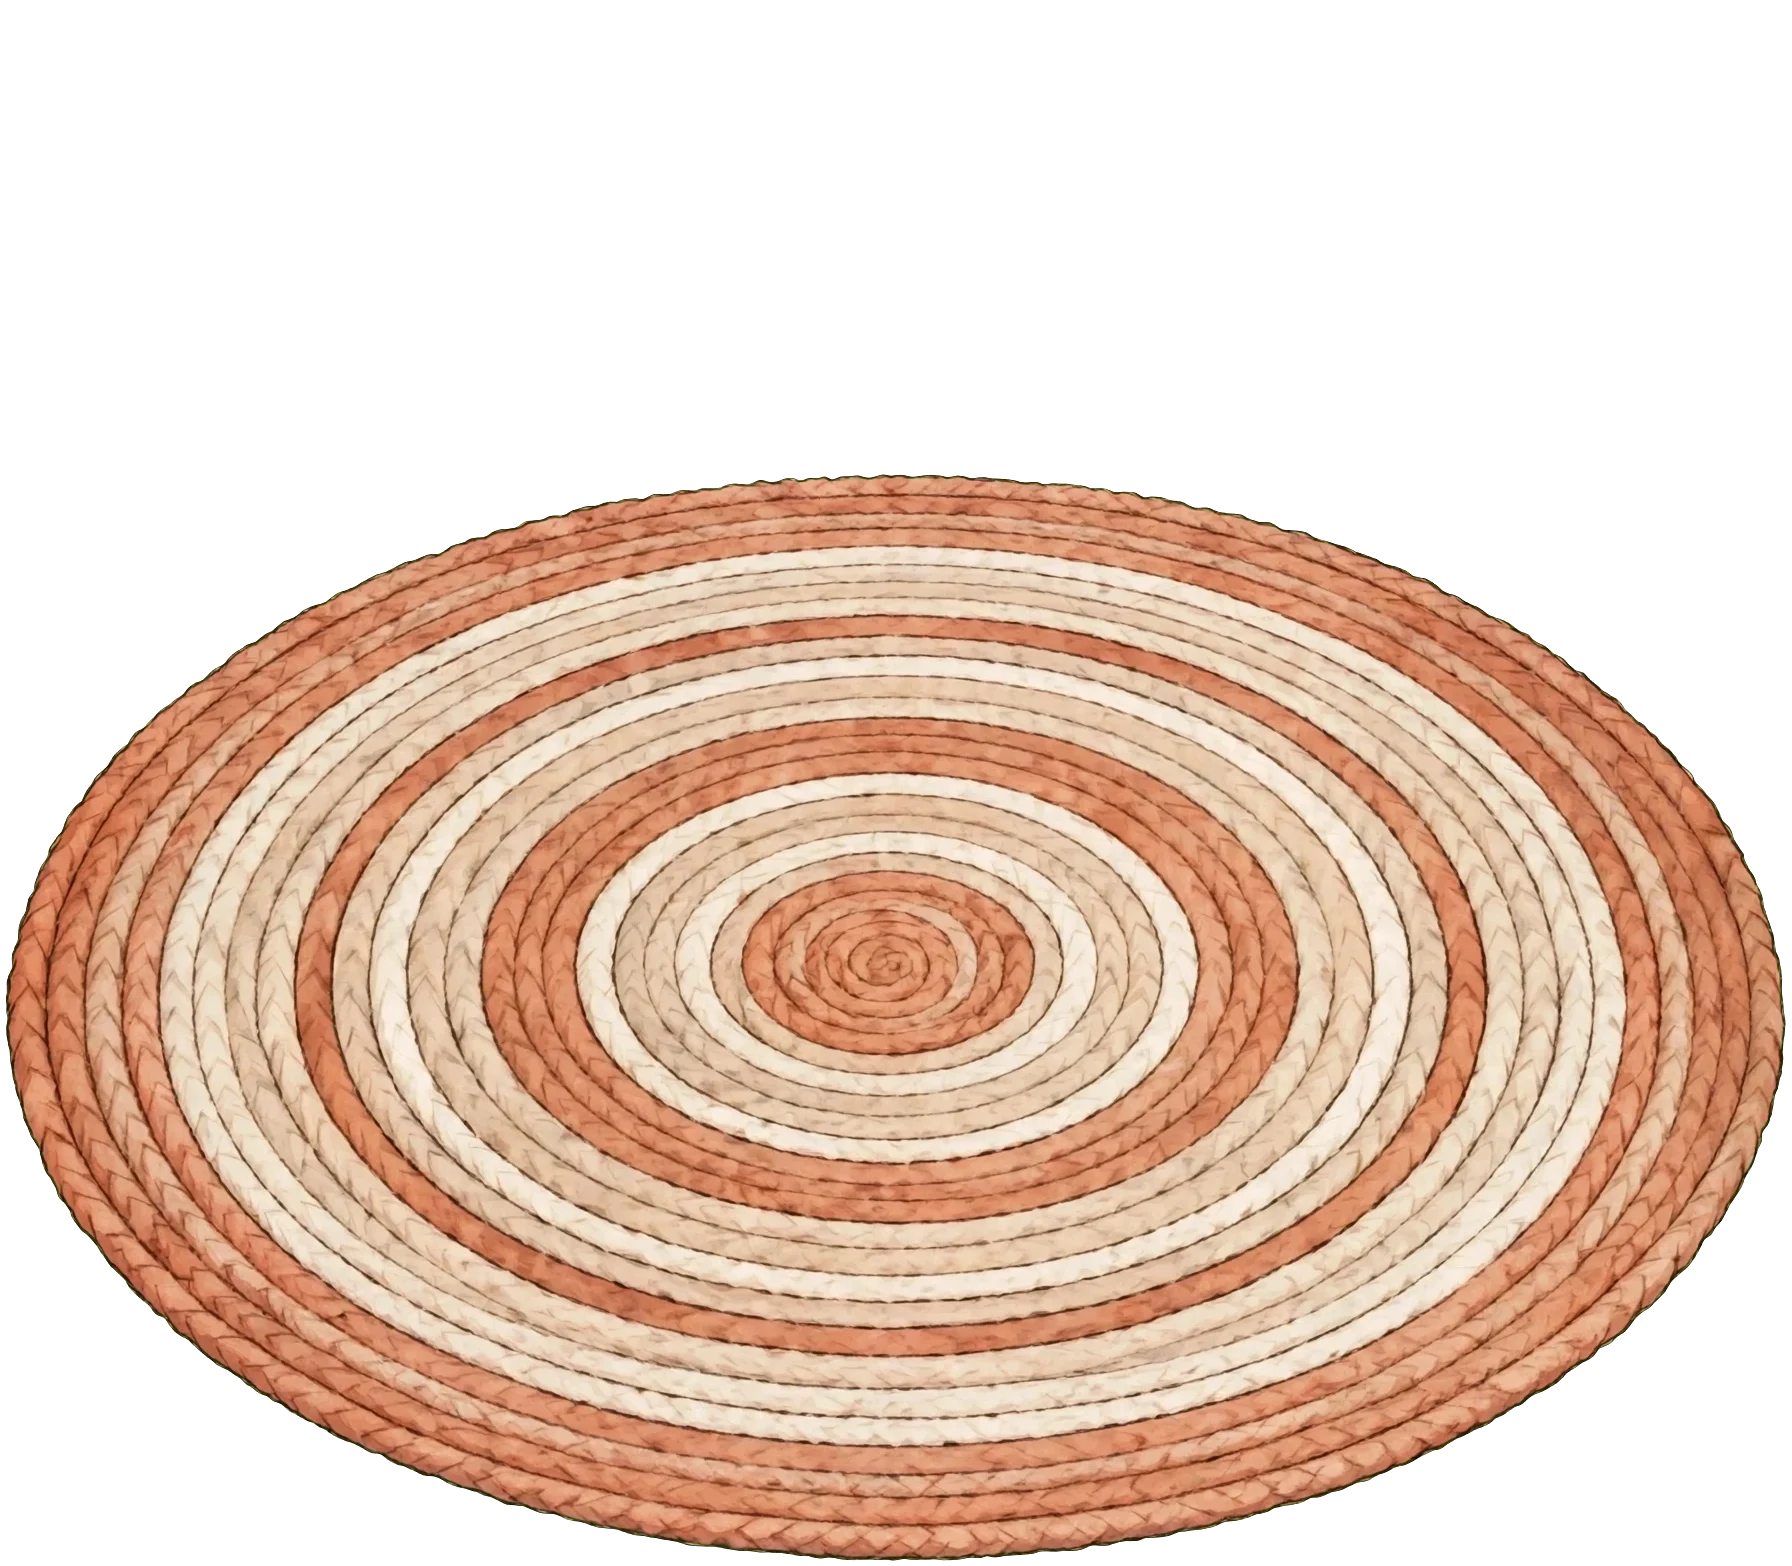
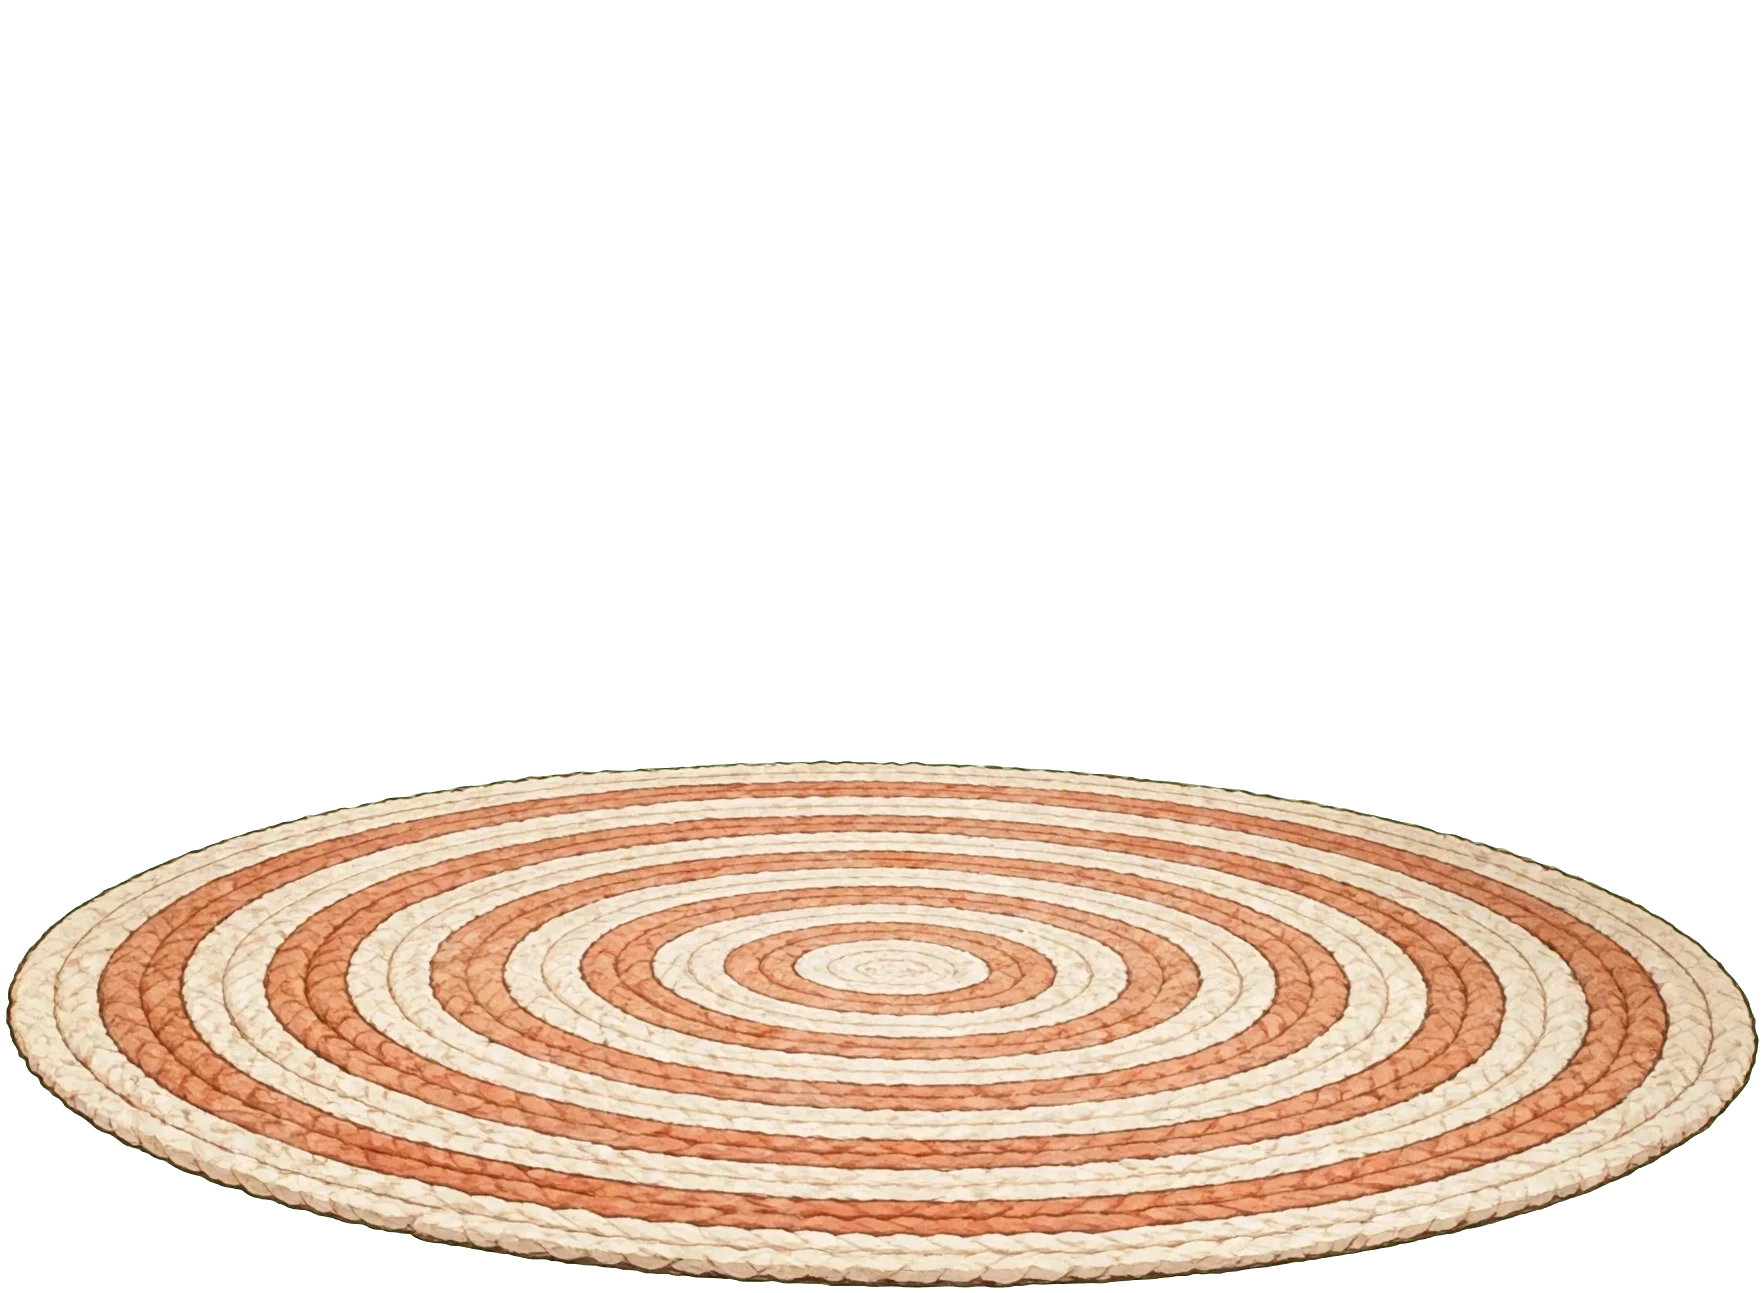
小屋改 16:9 宽房间：新背景重画、地毯绿植在新房间内生成后拆层、书柜贴后墙、书桌补全单独态

diff --git a/components/muse-room.tsx b/components/muse-room.tsx
@@ -34,7 +34,7 @@ import {
 // 她穿访客当前套装：自由身用时装库姿势图；行走默认装用小屋专用步行帧，
 // 其他套装用向前冲的奔跑帧代步；互动图层只有默认装——非默认装时她只散步不互动。
 
-const SCENE_RATIO = 5 / 8; // 场景容器高/宽（aspect 8/5），百分比换算用
+const SCENE_RATIO = 9 / 16; // 场景容器高/宽（aspect 16/9），百分比换算用
 
 function pick<T>(arr: T[]): T {
   return arr[Math.floor(Math.random() * arr.length)];
@@ -56,16 +56,16 @@ const INTERACT_LINE_KEY: Record<string, string> = {
   rug: "rug",
 };
 
-// 地毯互动人物层（合体图画布）与单体地毯（另一画布）的对位参数
-const RUG_CHAR_PLACE = { cx: 60, bottom: 99.5, h: 42 };
-
 // 家具图层画布的宽高比（left 居中换算用）
 const FURNITURE_ASPECT: Record<FurnitureId, number> = {
   bookshelf: 1207 / 1088,
   desk: 816 / 802,
-  plant: 769 / 1025,
-  rug: 1792 / 1566,
+  plant: 659 / 924,
+  rug: 1764 / 1293,
 };
+
+// 场景绘制顺序（后画的在上层）：靠墙的先画，前景的地毯最后
+const SCENE_ORDER: FurnitureId[] = ["bookshelf", "desk", "plant", "rug"];
 
 export function MuseRoom() {
   const t = useTranslations("Room");
@@ -353,7 +353,7 @@ export function MuseRoom() {
   // ---------------- 渲染 ----------------
 
   if (!save) {
-    return <div className="w-full rounded-xl border border-stone-200 dark:border-stone-800 bg-[#f7f1e5] dark:bg-stone-900 aspect-[8/5] animate-pulse" />;
+    return <div className="w-full rounded-xl border border-stone-200 dark:border-stone-800 bg-[#f7f1e5] dark:bg-stone-900 aspect-[16/9] animate-pulse" />;
   }
 
   const level = intimacyLevel(save.intimacyXp);
@@ -382,11 +382,11 @@ export function MuseRoom() {
   const bubbleAnchorX = herInLayer && act.target ? FURNITURE[act.target].anchor.x : herX;
   const bubbleBottom =
     act.mode === "interact" && act.target === "bookshelf"
-      ? 56
+      ? 67
       : act.mode === "interact" && act.target === "desk"
-        ? 60
+        ? 53
         : act.mode === "interact" || act.mode === "rest"
-          ? 56
+          ? 40
           : 46;
 
   const bar = (label: string, value: number, color: string) => (
@@ -408,12 +408,12 @@ export function MuseRoom() {
       `}</style>
 
       {/* 场景 */}
-      <div className="relative w-full overflow-hidden rounded-xl border border-stone-200 dark:border-stone-800 select-none" style={{ aspectRatio: "8/5" }}>
+      <div className="relative w-full overflow-hidden rounded-xl border border-stone-200 dark:border-stone-800 select-none" style={{ aspectRatio: "16/9" }}>
         {/* eslint-disable-next-line @next/next/no-img-element */}
         <img src="/muse-room/backdrop.webp" alt="" className="absolute inset-0 w-full h-full object-cover" draggable={false} />
 
         {/* 家具（固定槽位；拥有后出现，她互动时切换图层组） */}
-        {FURNITURE_ORDER.map((fid) => {
+        {SCENE_ORDER.map((fid) => {
           const def = FURNITURE[fid];
           if (!save.owned.includes(fid)) return null;
           const withHer = interactingWith(fid);
@@ -458,19 +458,11 @@ export function MuseRoom() {
                     alt=""
                     className="absolute max-w-none"
                     draggable={false}
-                    style={
-                      fid === "rug"
-                        ? {
-                            left: `${RUG_CHAR_PLACE.cx - (RUG_CHAR_PLACE.h * 0.728 * SCENE_RATIO) / 2}%`,
-                            bottom: `${100 - RUG_CHAR_PLACE.bottom}%`,
-                            height: `${RUG_CHAR_PLACE.h}%`,
-                          }
-                        : {
-                            left: `${def.place.cx - (def.place.h * FURNITURE_ASPECT[fid] * SCENE_RATIO) / 2}%`,
-                            bottom: `${100 - def.place.bottom}%`,
-                            height: `${def.place.h}%`,
-                          }
-                    }
+                    style={{
+                      left: `${def.place.cx - (def.place.h * FURNITURE_ASPECT[fid] * SCENE_RATIO) / 2}%`,
+                      bottom: `${100 - def.place.bottom}%`,
+                      height: `${def.place.h}%`,
+                    }}
                   />
                 ))}
             </div>
@@ -580,7 +572,7 @@ export function MuseRoom() {
           <p className="text-sm text-stone-500 dark:text-stone-400 font-light">{t("shopHint")}</p>
         </div>
         <div className="grid grid-cols-2 md:grid-cols-4 gap-3">
-          {FURNITURE_ORDER.map((fid) => {
+          {SCENE_ORDER.map((fid) => {
             const def = FURNITURE[fid];
             const owned = save.owned.includes(fid);
             const thumb = def.layers?.alone[0];

diff --git a/lib/room.ts b/lib/room.ts
@@ -270,12 +270,12 @@ export const FURNITURE: Record<FurnitureId, FurnitureDef> = {
     interactive: true,
     duration: 9000,
     intimacyXp: 1,
-    place: { cx: 60, bottom: 99.7, h: 50.7 },
+    place: { cx: 66, bottom: 99.3, h: 37 },
     layers: {
       alone: [`${R}/rug-solo.webp`],
       withHer: [`${R}/rug-solo.webp`, `${R}/rug-char.webp`],
     },
-    anchor: { x: 60, feet: 84.8 },
+    anchor: { x: 64.5, feet: 97.9 },
   },
   bookshelf: {
     id: "bookshelf",
@@ -285,12 +285,12 @@ export const FURNITURE: Record<FurnitureId, FurnitureDef> = {
     interactive: true,
     duration: 8000,
     intimacyXp: 1,
-    place: { cx: 23.6, bottom: 95.3, h: 51.5 },
+    place: { cx: 15.5, bottom: 77.5, h: 43 },
     layers: {
       alone: [`${R}/shelf-back.webp`],
       withHer: [`${R}/shelf-back.webp`, `${R}/shelf-char.webp`],
     },
-    anchor: { x: 33.2, feet: 95 },
+    anchor: { x: 22.7, feet: 77.2 },
   },
   desk: {
     id: "desk",
@@ -300,12 +300,12 @@ export const FURNITURE: Record<FurnitureId, FurnitureDef> = {
     interactive: true,
     duration: 9000,
     intimacyXp: 1,
-    place: { cx: 40, bottom: 94.4, h: 49.4 },
+    place: { cx: 44, bottom: 84, h: 36 },
     layers: {
-      alone: [`${R}/desk-front.webp`],
+      alone: [`${R}/desk-alone.webp`],
       withHer: [`${R}/desk-char.webp`, `${R}/desk-front.webp`],
     },
-    anchor: { x: 39.7, feet: 91.3 },
+    anchor: { x: 43.8, feet: 81.7 },
   },
   plant: {
     id: "plant",
@@ -315,9 +315,9 @@ export const FURNITURE: Record<FurnitureId, FurnitureDef> = {
     interactive: false,
     duration: 0,
     intimacyXp: 0,
-    place: { cx: 87, bottom: 95.2, h: 35.4 },
+    place: { cx: 66.5, bottom: 77, h: 29 },
     layers: { alone: [`${R}/plant.webp`], withHer: [`${R}/plant.webp`] },
-    anchor: { x: 87, feet: 94 },
+    anchor: { x: 66.5, feet: 76.5 },
   },
 };
 
